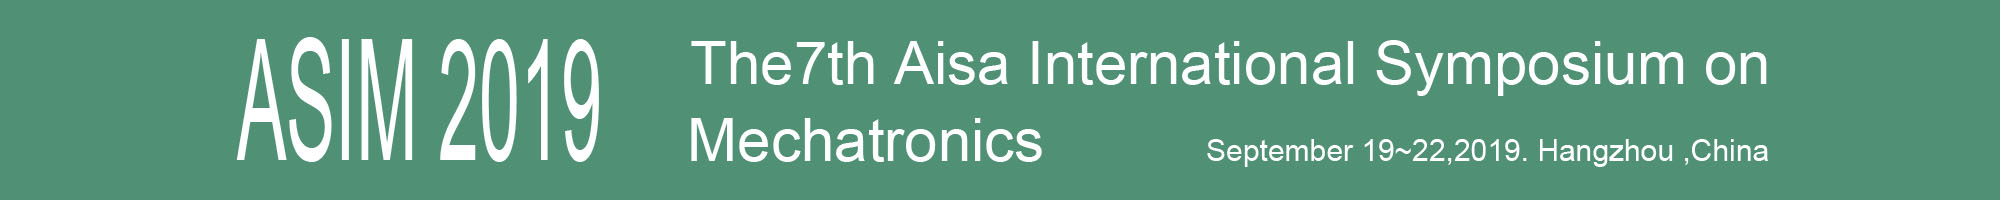
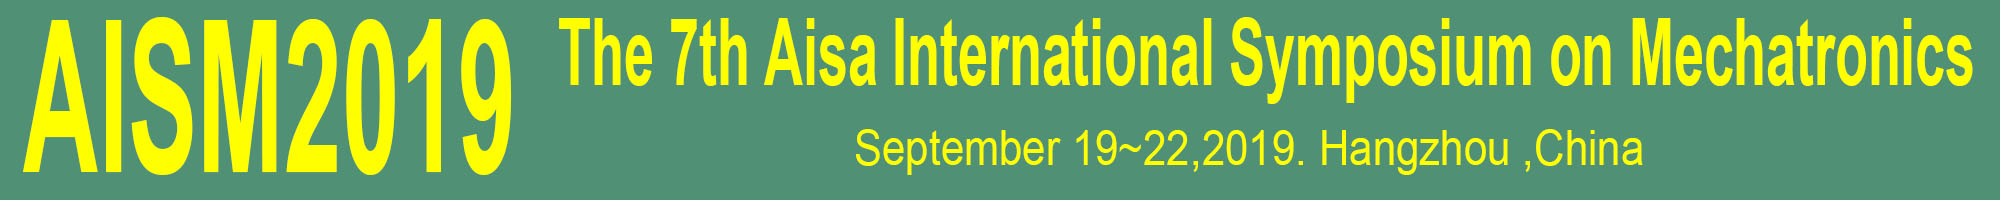
change features

Changed region(s): [[0.0, 0.09, 0.992, 0.87], [0.341, 0.57, 0.899, 0.87], [0.713, 0.09, 0.744, 0.15]]

diff --git a/src/components/Banner.vue b/src/components/Banner.vue
@@ -1,15 +1,25 @@
 <template>
-  <el-row type="flex" class="banner" justify="center" style="width:100%;">
-    <el-col :span="20" class="item">
-      <img src="@/assets/banner.jpg" style="height:100%">
+  <el-row type="flex" style="width:100%" justify="center">
+    <el-col :span="2">
+      <div style="height:100%"></div>
+    </el-col>
+    <el-col
+      :span="20"
+      type="flex"
+      class="banner"
+      justify="center"
+      style="width:100%;max-width:1280px"
+    >
+      <img src="@/assets/banner.jpg" style="width:100%">
     </el-col>
     <el-col :span="2">
-      <el-button type="text" class="light-button" @click="()=>{this.$router.push('./upload')}">
-        <span style="padding:2px">Register</span>
-        <el-badge class="mark" value="click"/>
-      </el-button>
+      <span style="float:left">
+        <el-button type="text" class="light-button" @click="()=>{this.$router.push('./upload')}">
+          <span style="padding:2px">Register</span>
+          <el-badge class="mark" value="click"/>
+        </el-button>
+      </span>
     </el-col>
-    <el-row :span="2"></el-row>
   </el-row>
 </template>
 

diff --git a/src/App.vue b/src/App.vue
@@ -1,7 +1,7 @@
 <template>
   <div id="app">
-    <el-container style="min-height:100vh">
-      <el-header style="justify-content: center;height:100px;background:#509176">
+    <el-container style="min-height:100vh;width:100%">
+      <el-header style="justify-content: center;height:auto;background:#509176">
         <Banner/>
       </el-header>
 
@@ -131,9 +131,10 @@ export default {
 .el-header {
   /* background-color: #b3c0d1;
   color: #333; */
+  padding: 0px !important;
   display: flex;
   /* line-height: 100px; */
-  line-height: 100px;
+  /* line-height: 100px; */
   justify-content: space-between;
   width: 100vw;
 }
